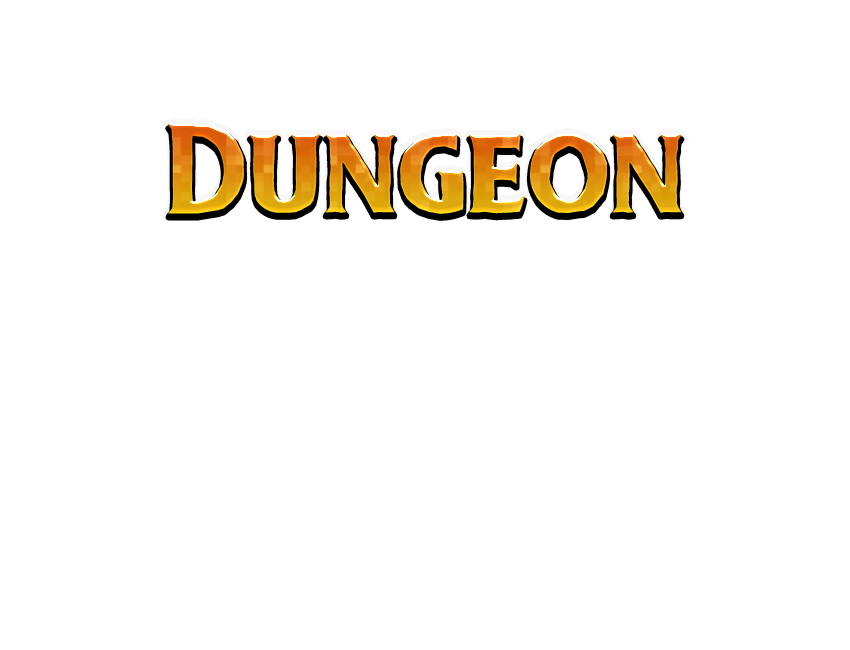
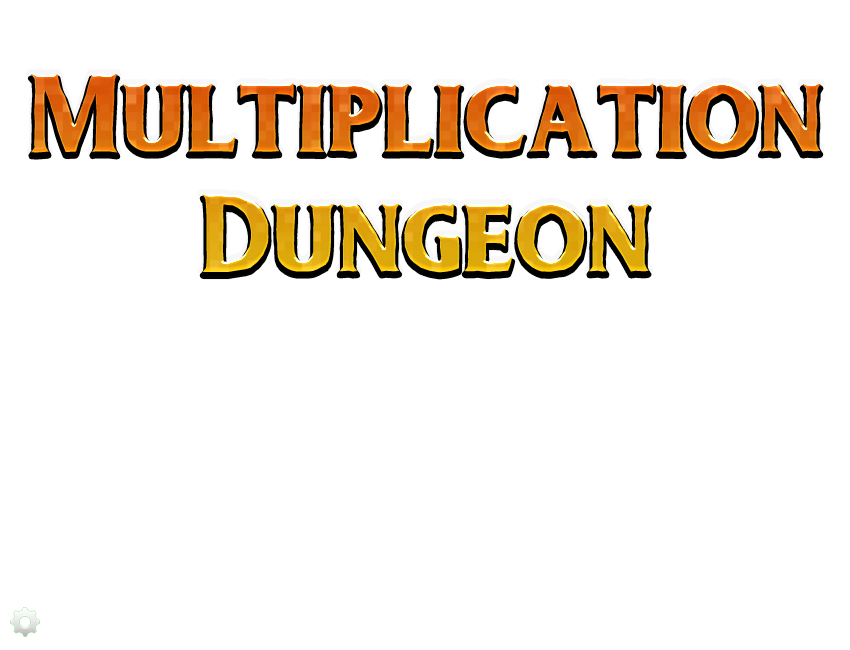
New Main menu & Started QuestionTimer BG

Changed region(s): [[0.0306, 0.0923, 0.9788, 0.4308], [0.0, 0.9538, 0.0612, 0.9846]]

diff --git a/The_School_Project/src/theschoolproject/QuestionTimer.java b/The_School_Project/src/theschoolproject/QuestionTimer.java
@@ -2,15 +2,17 @@ package theschoolproject;
 
 import java.awt.Color;
 import java.awt.Graphics;
+import java.awt.image.BufferedImage;
 import java.util.Random;
 
 public class QuestionTimer {
 
     Random gen = new Random();
     static int QUESTION_RANGE = 10;
-
+    BufferedImage BG = UsefulSnippets.loadImage("/resources/QuestionBG.png");
+    
     public QuestionTimer() {
-
+        
     }
 
     public void tick() {
@@ -29,11 +31,14 @@ public class QuestionTimer {
     public void draw(Graphics g) {
         String equation = makeEquation();
         g.setColor(Color.white);
-        g.fill3DRect(200, 100, 450, 300, true);
+        g.drawImage(BG, 200, 100, null);
         g.setColor(Color.black);
         g.drawString("Multiplication Question", 370, 121);
         g.drawString("1x2 = ", 370, 201);
-        SchoolProjectForm.checkButton.setVisible(true);
-        SchoolProjectForm.productTextField.setVisible(true);
+        
+        //Don't use ratchet text boxes and buttons --> They can't use keyboard
+        //It also looks god awful
+        //SchoolProjectForm.checkButton.setVisible(true);
+        //SchoolProjectForm.productTextField.setVisible(true);
     }
 }

diff --git a/The_School_Project/src/theschoolproject/UsefulSnippets.java b/The_School_Project/src/theschoolproject/UsefulSnippets.java
@@ -16,6 +16,8 @@ import javax.imageio.ImageIO;
 
 public class UsefulSnippets {
 
+    
+    
     public static void openWebpage(String urlString) {
         try {
             Desktop.getDesktop().browse(new URL(urlString).toURI());
